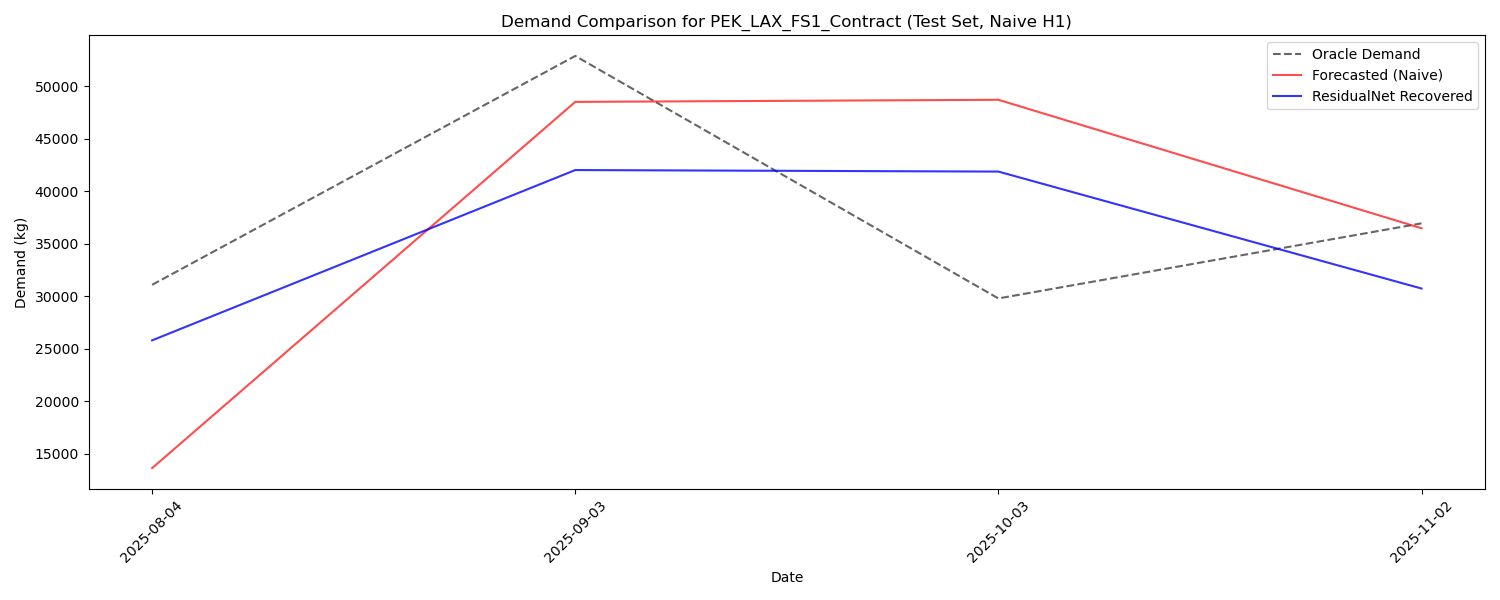
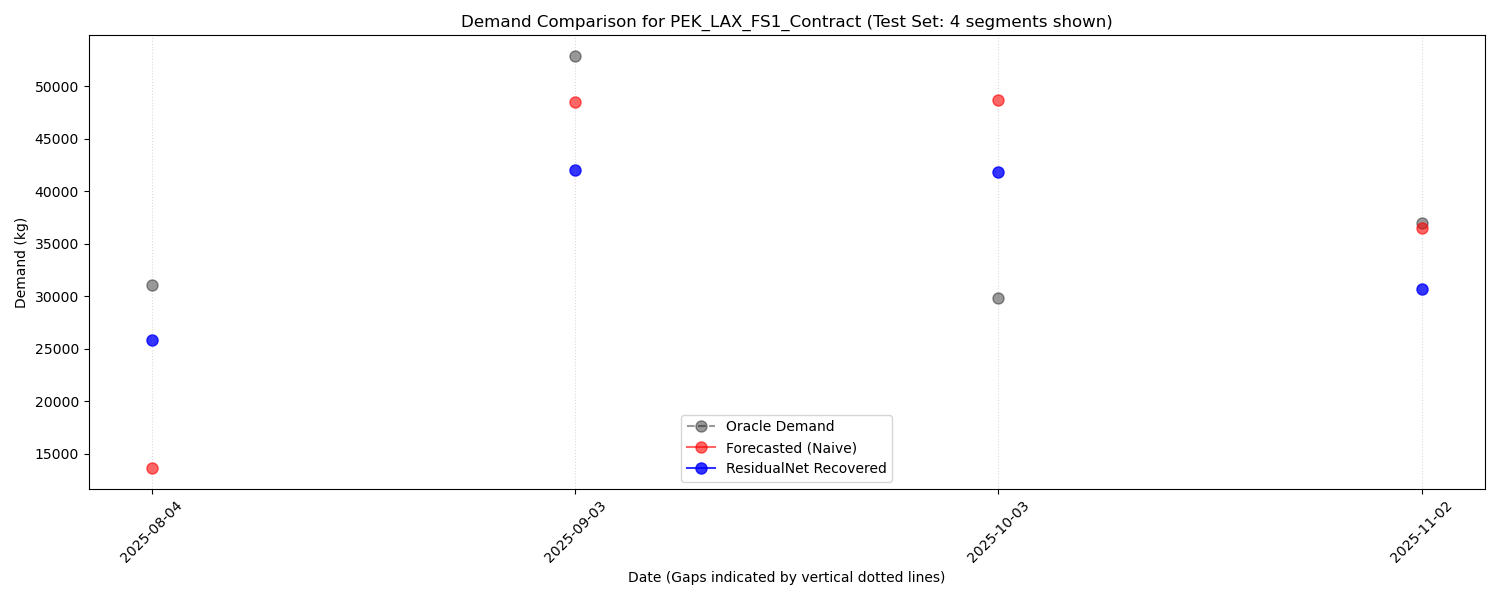
update visuals

diff --git a/ResidualNet/visualize_timeseries.py b/ResidualNet/visualize_timeseries.py
@@ -90,11 +90,39 @@ def visualize_flight(model_name, horizon, flight_id):
 
     # Plot
     plt.figure(figsize=(15, 6))
-    plt.plot(plot_dates, oracle, label='Oracle Demand', color='black', alpha=0.6, linestyle='--')
-    plt.plot(plot_dates, forecast, label=f'Forecasted ({model_name})', color='red', alpha=0.7)
-    plt.plot(plot_dates, recovered, label='ResidualNet Recovered', color='blue', alpha=0.8)
-    plt.title(f"Demand Comparison for {flight_id} (Test Set, {model_name} H{horizon})")
-    plt.xlabel("Date")
+    
+    # Logic to break lines at gaps
+    # If gap > 1 day, we should insert a Nan or plot segments separately
+    dates_pd = pd.to_datetime(plot_dates)
+    diffs = dates_pd.to_series().diff().dt.days
+    break_indices = np.where(diffs > 1)[0]
+    
+    start_idx = 0
+    for end_idx in list(break_indices) + [len(plot_dates)]:
+        # Plot each segment separately to avoid lines crossing gaps
+        segment_slice = slice(start_idx, end_idx)
+        if start_idx < end_idx:
+            # Only add labels to the first segment
+            label_o = 'Oracle Demand' if start_idx == 0 else None
+            label_f = f'Forecasted ({model_name})' if start_idx == 0 else None
+            label_r = 'ResidualNet Recovered' if start_idx == 0 else None
+            
+            # Use markers, especially for H=1 which might be single points
+            ms = 8 if horizon == 1 else (4 if horizon == 7 else 2)
+            marker = 'o'
+            
+            plt.plot(plot_dates[segment_slice], oracle[segment_slice], color='black', alpha=0.4, linestyle='--', label=label_o, marker=marker, markersize=ms)
+            plt.plot(plot_dates[segment_slice], forecast[segment_slice], color='red', alpha=0.6, label=label_f, marker=marker, markersize=ms)
+            plt.plot(plot_dates[segment_slice], recovered[segment_slice], color='blue', alpha=0.8, label=label_r, marker=marker, markersize=ms)
+        
+        # Draw vertical line at the start of each fold/segment
+        if start_idx < len(plot_dates):
+            plt.axvline(x=plot_dates[start_idx], color='gray', alpha=0.3, linestyle=':', linewidth=0.8)
+            
+        start_idx = end_idx
+
+    plt.title(f"Demand Comparison for {flight_id} (Test Set: {len(break_indices)+1} segments shown)")
+    plt.xlabel("Date (Gaps indicated by vertical dotted lines)")
     plt.ylabel("Demand (kg)")
     plt.legend()
     plt.xticks(rotation=45)
